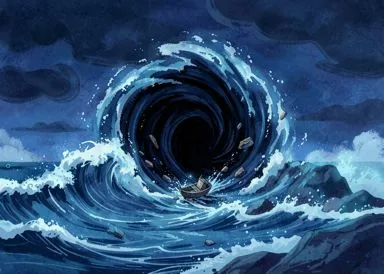
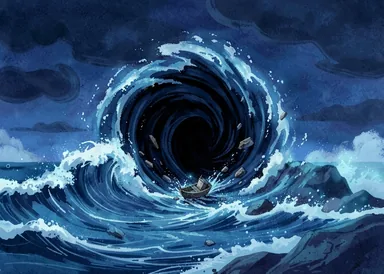
Illustrazioni di prova dagli originali HD 1344x960
Claude-Session: https://claude.ai/code/session_01GHTqSJ6GX8Qi9a6eNPyamh

diff --git a/assets/art/README.md b/assets/art/README.md
@@ -10,5 +10,3 @@ Per creare le versioni web:
 
 1. Copia gli originali in `assets/art/originals/`.
 2. Esegui `corepack pnpm art`.
-
-NOTA: le 8 carte di prova usano per ora le anteprime da 384 px. La versione `lg` è quindi sfocata.
